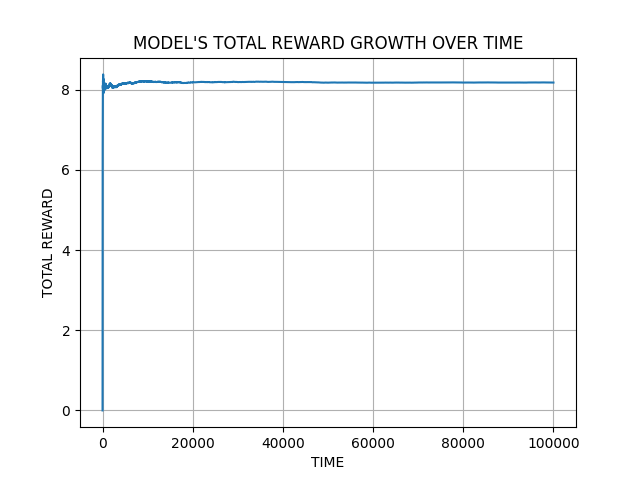
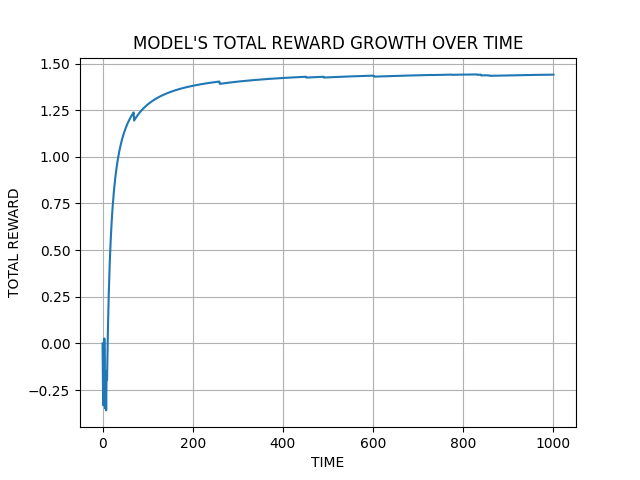
Imagem de desempenho e correções para o código ficar parecido com o do livro

diff --git a/projects/k_armed_bandit/__init__.py b/projects/k_armed_bandit/__init__.py
@@ -58,16 +58,16 @@ class Project(ProjectAbstractClass):
     def __init__(self):
         ACTIONS_NUMBER = 10
 
+        mean = 0
+        std = 1
+
         self.rewards = [
-            [
-                ((10 + 10)*np.random.random_sample(1) - 10).item(),
-                1
-            ] for _ in range(ACTIONS_NUMBER)
+            np.random.normal(mean,std,1).item() for _ in range(ACTIONS_NUMBER)
         ]
         # The actions are the array indexes
         # Each array contains a Normal mean and its standart deviation
 
-        self.agent = Agent(ACTIONS_NUMBER)
+        self.agent = Agent(ACTIONS_NUMBER, .01)
     
     def get_reward(self, action: int):
         """Gets the reward desired for the given action
@@ -78,13 +78,12 @@ class Project(ProjectAbstractClass):
         Returns:
             int: The reward associeted with the passed action
         """
-        distribution_infos = self.rewards[action]
-        return np.random.normal(distribution_infos[0], distribution_infos[1], size=1).item()
+        return self.rewards[action]
     
     def train_agent(self):
         """Function responsible for the flowing of training the agent
         """
-        EPOCHS = 100000
+        EPOCHS = 1000
         
         for _ in range(EPOCHS):
             chosen_action = self.agent.choose()
